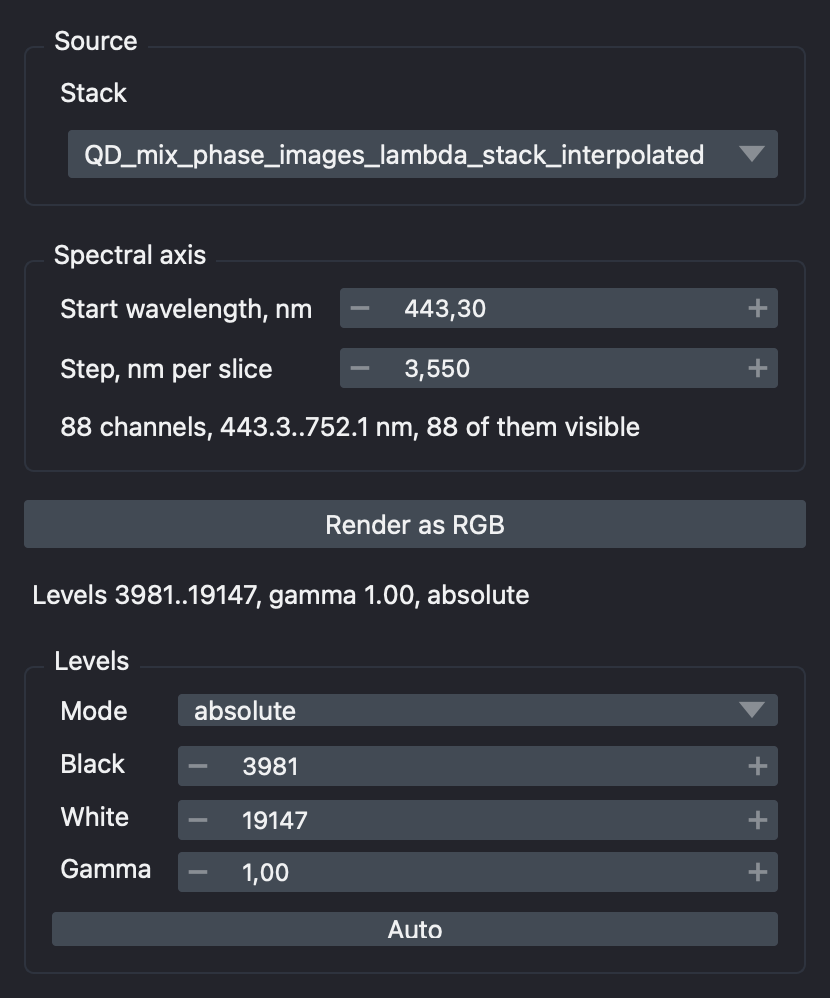
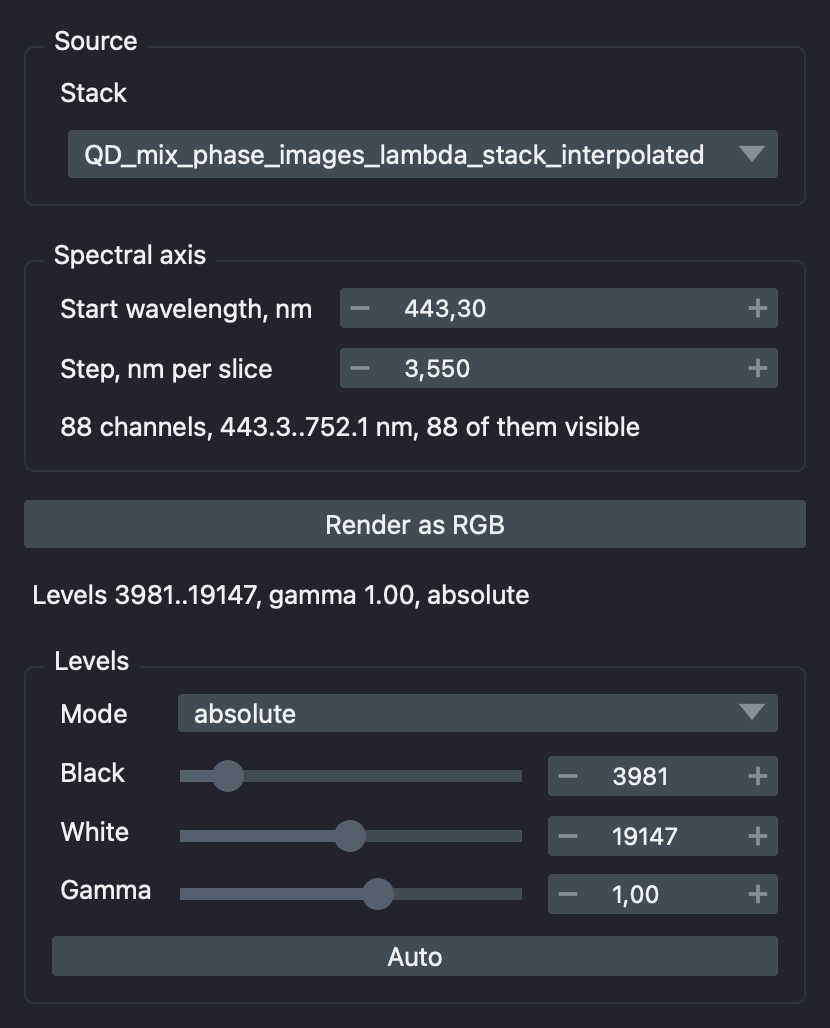
23.20.2026: spectra viss widget minor updates

diff --git a/src/spectra_spin_napari/_widgets.py b/src/spectra_spin_napari/_widgets.py
@@ -35,7 +35,7 @@ from PySide6.QtGui import QFontMetrics
 from PySide6.QtWidgets import (QCheckBox, QComboBox, QDialog, QDoubleSpinBox, QFileDialog,
                                QFormLayout, QGroupBox, QHBoxLayout, QLabel,
                                QLineEdit, QProgressBar, QPushButton, QSizePolicy,
-                               QSpinBox, QVBoxLayout, QWidget)
+                               QSlider, QSpinBox, QVBoxLayout, QWidget)
 
 logger = logging.getLogger(__name__)
 
@@ -524,6 +524,79 @@ def bundled_pattern() -> np.ndarray:
     logger.info(f'Loaded the bundled pattern {PATTERN_PATH.name} {pattern.shape}, '
                 f'{int(pattern.sum())} skeleton pixels')
     return pattern
+
+
+class _SliderSpin(QWidget):
+    """ A horizontal slider bound to a spin box: drag roughly, type exactly.
+
+    The two always show the same value. The slider spans `set_span` - which
+    may be narrower than the range the box accepts, a value beyond it pins
+    the slider to its end - and moves on a linear or a logarithmic scale.
+
+    Parameters
+    ----------
+    spin : PySide6.QtWidgets.QDoubleSpinBox
+        The box holding the value; it stays the source of truth, and its
+        ``valueChanged`` signal is the one to listen to.
+    log : bool, optional
+        Logarithmic slider scale, by default False; for a positive quantity
+        such as gamma, whose 0.5 and 2 lie the same distance from 1.
+
+    """
+
+    STEPS = 1000
+
+    def __init__(self, spin, log:bool=False):
+        super().__init__()
+        self.spin, self.log = spin, log
+        self.span = (spin.minimum(), spin.maximum())
+        self.slider = QSlider(Qt.Orientation.Horizontal)
+        self.slider.setRange(0, self.STEPS)
+        self.slider.setMinimumWidth(60)
+        layout = QHBoxLayout(self)
+        layout.setContentsMargins(0, 0, 0, 0)
+        # fixed 3:2 shares rather than size hints, so that the sliders of
+        # several rows line up whatever the range of their boxes
+        spin.setSizePolicy(QSizePolicy.Policy.Ignored, QSizePolicy.Policy.Fixed)
+        spin.setMinimumWidth(70)
+        layout.addWidget(self.slider, 3)
+        layout.addWidget(spin, 2)
+        # a short dock must not squeeze the row below its box
+        self.setMinimumHeight(max(spin.sizeHint().height(), self.slider.sizeHint().height()))
+        self.slider.valueChanged.connect(self._to_spin)
+        spin.valueChanged.connect(self.sync)
+        self.sync()
+
+    def set_span(self, low:float, high:float):
+        """ Set the values the two ends of the slider stand for.
+
+        Parameters
+        ----------
+        low, high : float
+            Values at the left and the right end; positive for a log scale.
+
+        """
+        self.span = (low, max(high, low + 1e-12))
+        self.sync()
+
+    def _scale(self, value:float) -> float:
+        """ Position of `value` on the slider scale, linear or logarithmic. """
+        return np.log(value) if self.log else value
+
+    def _to_spin(self, position:int):
+        """ Put the value under the slider into the box. """
+        low, high = (self._scale(v) for v in self.span)
+        value = low + (high - low) * position / self.STEPS
+        self.spin.setValue(float(np.exp(value)) if self.log else value)
+
+    def sync(self):
+        """ Move the slider to the value of the box without echoing back. """
+        low, high = (self._scale(v) for v in self.span)
+        fraction = (self._scale(max(self.spin.value(), 1e-12) if self.log
+                                else self.spin.value()) - low) / (high - low)
+        self.slider.blockSignals(True)
+        self.slider.setValue(int(round(np.clip(fraction, 0, 1) * self.STEPS)))
+        self.slider.blockSignals(False)
 
 
 class _StatusLabel(QLabel):
@@ -2997,17 +3070,20 @@ class LambdaRGBWidget(_TaskWidget):
         self.black_spin = _spin(0.0, 1e12, 0.0, 1.0, decimals=2)
         self.black_spin.setToolTip('Brightness rendered black, in the units of the stack; '
                                    'a flat spectrum of intensity v has brightness v')
-        levels_form.addRow('Black', self.black_spin)
+        self.black_slider = _SliderSpin(self.black_spin)
+        levels_form.addRow('Black', self.black_slider)
         self.white_spin = _spin(0.0, 1e12, 1.0, 1.0, decimals=2)
         self.white_spin.setToolTip('Brightness rendered at full white; above it a pixel '
                                    'saturates in brightness, not in hue')
         self.white_row = levels_form.rowCount()
-        levels_form.addRow('White', self.white_spin)
+        self.white_slider = _SliderSpin(self.white_spin)
+        levels_form.addRow('White', self.white_slider)
         self.gamma_spin = _spin(0.1, 5.0, 1.0, 0.05, decimals=2)
         self.gamma_spin.setToolTip('Exponent between the levels: 1 keeps relative brightness, '
                                    'below 1 lifts faint regions, above 1 presses them down')
         self.gamma_row = levels_form.rowCount()
-        levels_form.addRow('Gamma', self.gamma_spin)
+        self.gamma_slider = _SliderSpin(self.gamma_spin, log=True)
+        levels_form.addRow('Gamma', self.gamma_slider)
         self.auto_btn = QPushButton('Auto')
         self.auto_btn.setToolTip('Black at the median brightness, the background of sparse '
                                  'emitters; white at its 99.5th percentile')
@@ -3042,7 +3118,7 @@ class LambdaRGBWidget(_TaskWidget):
         if self._target is not None and self._target not in self.viewer.layers:
             self._linear, self._target = None, None
         enabled = self._linear is not None
-        for widget in (self.black_spin, self.white_spin, self.gamma_spin, self.auto_btn):
+        for widget in (self.black_slider, self.white_slider, self.gamma_slider, self.auto_btn):
             widget.setEnabled(enabled)
 
     def _refresh_intensity(self):
@@ -3093,12 +3169,14 @@ class LambdaRGBWidget(_TaskWidget):
         def task(report):
             """ Convert the stack to linear sRGB and find its levels in the worker. """
             rgb, info = lambda_stack_to_rgb(stack, report=report, **kwargs)
-            return rgb, info, rgb_auto_levels(rgb)
+            return rgb, info, rgb_auto_levels(rgb), float(rgb.max())
 
         self._start_task(task, self._add_result, f'Rendering {name} as RGB...')
 
     def _set_levels(self, black:float, white:float):
         """ Put levels into the boxes, with steps and decimals to their scale.
+
+        The sliders follow the boxes; their span is set by `_add_result`.
 
         Parameters
         ----------
@@ -3114,6 +3192,8 @@ class LambdaRGBWidget(_TaskWidget):
             box.setSingleStep(scale / 100)
             box.setValue(value)
             box.blockSignals(False)
+        self.black_slider.sync()
+        self.white_slider.sync()
 
     def _auto_levels(self):
         """ Set the levels from the brightness of the kept colour. """
@@ -3143,13 +3223,17 @@ class LambdaRGBWidget(_TaskWidget):
         Parameters
         ----------
         result : tuple
-            Linear sRGB and the summary of `lambda_stack_to_rgb`, and the
-            levels of `rgb_auto_levels`.
+            Linear sRGB and the summary of `lambda_stack_to_rgb`, the
+            levels of `rgb_auto_levels` and the highest brightness.
 
         """
-        rgb, info, (black, white) = result
+        rgb, info, (black, white), top = result
         name, scale, translate = self._pending
         self._linear = rgb
+        # the sliders span the whole brightness range, as napari's contrast
+        # limits span the data range; the boxes accept any value beyond it
+        for slider in (self.black_slider, self.white_slider):
+            slider.set_span(0.0, max(top, white))
         self._set_levels(black, white)
         # the levels as the boxes show them, so that the image matches them
         black, white = self.black_spin.value(), self.white_spin.value()

diff --git a/README.md b/README.md
@@ -350,6 +350,14 @@ that kept colour and the output layer follows the boxes as they are edited,
 in about 0.1 s and without a new render - as the contrast limits of a grey
 image do. Every render starts from the automatic levels.
 
+Each level is a **slider with a box beside it**: drag for a rough setting,
+type for an exact one; the two always show the same value. The Black and
+White sliders span the whole brightness range of the render, 0 to its
+brightest pixel, as napari's contrast-limit slider spans the data range; the
+boxes accept values beyond it, and the slider then rests at its end. The
+Gamma slider runs on a logarithmic scale over 0.1..5, so that 0.5 and 2 lie
+the same distance either side of 1.
+
 | Level | Default | Description |
 |---|---|---|
 | `Mode` | absolute | How brightness is set, see below. |
